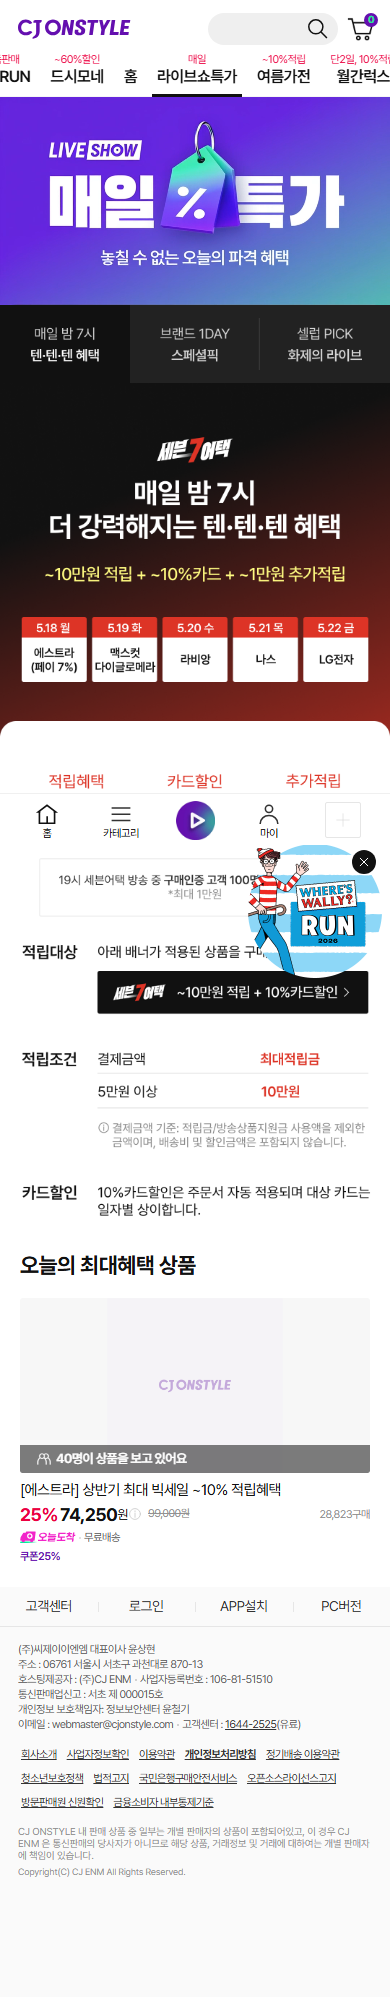
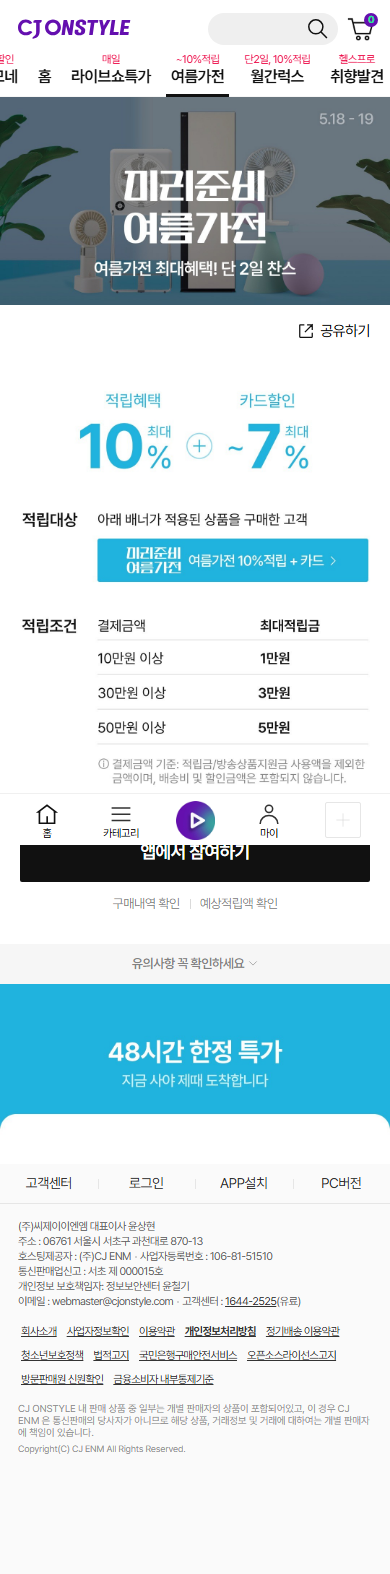
Auto update: 2026.05.18

diff --git a/index.html b/index.html
@@ -70,9 +70,9 @@
     <div class="card-header">
       <div class="card-header-top">
         <span class="logo cj">CJ온스타일</span>
-        <span class="promo-name" id="cj-name">라이브쇼특가</span>
+        <span class="promo-name" id="cj-name">미리준비 여름가전</span>
       </div>
-      <span class="promo-period" id="cj-period">5/18</span>
+      <span class="promo-period" id="cj-period">5/18 ~ 5/19</span>
     </div>
     <div class="card-body">
       <div class="screenshot-wrap">
@@ -81,8 +81,8 @@
         <p style="font-size:10px;color:#bbb;">클릭하면 크게 보기</p>
       </div>
       <div class="summary" id="cj-summary">혜택:
-  쿠폰: 25% 할인
-  적립: 최대 10% 적립</div>
+  적립: 최대 10% 적립 (10만원 이상 1만원 / 30만원 이상 3만원 / 50만원 이상 5만원)
+  카드: 최대 ~7% 카드할인</div>
     </div>
   </div>
   <div class="card">
@@ -128,7 +128,7 @@
   <img id="modal-img" src="" alt="">
 </div>
 <script>
-  const summaries = {"2026-05-18": {"hyundai": {"period": "", "name": "해당없음", "body": "", "start": "2026-05-13"}, "gs": {"period": "~ 5/18", "name": "매직딜데이", "body": "혜택:\n  카드: 삼성카드 7% 즉시할인\n  적립: 1개만 사도 10% 적립", "start": "2026-05-18"}, "cj": {"period": "", "name": "라이브쇼특가", "body": "혜택:\n  쿠폰: 25% 할인\n  적립: 최대 10% 적립", "start": "2026-05-18"}, "lotte": {"period": "5/18 ~ 5/19", "name": "5월 PICK 데이 미리 준비하는 여름 아이템 HOT&BEST 패션 슈즈&잡화 특가", "body": "혜택:\n  적립: 최대 12% 적립\n  특가: 엘라이브 단독특가 (5/18~19, 코지마 안마의자/마사지기 외)\n  특가: 파르페by알레르망 최대 53% 할인 (5/18~19 앵콜 단독특가)", "start": "2026-05-18"}}, "2026-05-15": {"hyundai": {"period": "", "name": "해당없음", "body": "", "start": "2026-05-13"}, "gs": {"period": "", "name": "판타지에스", "body": "혜택:\n  적립: TV상품 10% 적립, 최대 3만원\n  경품: 12억 타임어택, 매일 2회 1억 선착순 혜택\n  카드: 판타지브랜드 대표 브랜드 카드 10% 할인\n  할인: 판타지스타 선별 신상품 최대 50% 할인\n  특가: 99특가 매일 오전 10시 오픈런\n  쿠폰: 오늘의 특가 쿠폰 (일일 식품/생활 특가 상품)", "start": "2026-05-15"}, "cj": {"period": "5/11 ~ 5/17", "name": "쿠폰런", "body": "혜택:\n  쿠폰: 매일 오전 10시 선착순 ~20%할인 (선착순 500명, 최대 1만원)\n  쿠폰: 10%할인 (선착순 5,000명, 최대 5만원)\n  쿠폰: 3,000원 할인 (전 고객 1인 1장)\n  쿠폰: 첫 구매 ~20% (CJ온스타일 처음 또는 오랜만 고객)\n  쿠폰: 식품 10%할인", "start": "2026-05-12"}, "lotte": {"period": "5/14 ~ 5/17", "name": "브랜드 올스타전", "body": "혜택:\n  카드: 카드 7% 할인\n  적립: 최대 6만점 적립", "start": "2026-05-15"}}, "2026-05-14": {"hyundai": {"period": "", "name": "해당없음", "body": "", "start": "2026-05-13"}, "gs": {"period": "~ 5/17", "name": "판타지에스", "body": "혜택:\n  적립: TV상품 10% 적립, 최대 3만원\n  특가: 매직딜데이 7%+10% 중복 혜택 (매일 운영)\n  카드: 판타지브랜드 최대 10% 할인\n  할인: 판타지푸드 최대 50% 할인", "start": "2026-05-12"}, "cj": {"period": "5/11 ~ 5/17", "name": "쿠폰런", "body": "혜택:\n  쿠폰: 선착순 20% 할인쿠폰 (매일 오전 10시, 선착순 500명, 최대 1만원 할인)\n  쿠폰: 선착순 10% 할인쿠폰 (매일 오전 10시, 선착순 5,000명, 최대 5천원 할인)\n  쿠폰: 전 고객 3,000원 할인쿠폰 (누구나, 1회)\n  쿠폰: 첫구매 고객 최대 20% 할인쿠폰", "start": "2026-05-12"}, "lotte": {"period": "5/14", "name": "메가딜데이", "body": "혜택:\n  카드: KB카드·삼성카드 7% 할인\n  적립: 최대 12만 적립\n  쿠폰: 최대 20% 상품별 쿠폰 (트루릴리전·라스튜디오·조르쥬레쉬·이엘다이아몬드 등 개별 적용)", "start": "2026-05-14"}}, "2026-05-13": {"hyundai": {"period": "", "name": "해당없음", "body": "", "start": "2026-05-13"}, "gs": {"period": "~ 5/17", "name": "판타지에스", "body": "혜택:\n  적립: TV상품 최대 3만원, 10% 적립\n  특가: 12억 타임어택 매일 2회, 1억 선착순\n  카드: 판타지브랜드 대표 브랜드 카드 10% 할인\n  할인: 인기상품 최대 50% 할인\n  특가: 99특가 매일 오전 10시 오픈런", "start": "2026-05-12"}, "cj": {"period": "5/11 ~ 5/17", "name": "쿠폰런", "body": "혜택:\n  쿠폰: 20% 할인, 매일 오전 10시 선착순, 최소 500원 ~ 최대 1만원\n  쿠폰: 10% 할인, 선착순, 최소 5,000원 ~ 최대 5만원\n  쿠폰: 3,000원 할인, 전고객 선착 지급\n  쿠폰: 첫 구매 고객 ~20% 할인\n  쿠폰: 식품 10% 할인", "start": "2026-05-12"}, "lotte": {"period": "5/11 ~ 5/13", "name": "브랜드 올스타전", "body": "혜택:\n  카드: 7% 할인\n  적립: 최대 15% 적립", "start": "2026-05-13"}}, "2026-05-12": {"gs": {"period": "5/12 ~ 5/17", "name": "판타지에스", "body": "혜택:\n  카드: 최대 10% 할인 (판타지브랜드 대표 브랜드 상품, 삼성카드·현대카드)\n  적립: TV상품 최대 3만원 적립 (10% 적립)\n  특가: 12억 타임어택 (매일 2회, 회차당 1억 선착순)\n  할인: 최대 50% 할인 (판타지뷰티 인기상품)\n  특가: 99특가 (매일 오전 10시 오픈런)\n  쿠폰: 오늘의 특가 쿠폰 (식품 특가 적용)", "start": "2026-05-12"}, "cj": {"period": "5/11 ~ 5/17", "name": "쿠폰런", "body": "혜택:\n  쿠폰: 매일 오전 10시 선착순 ~20% 할인 쿠폰", "start": "2026-05-12"}, "lotte": {"period": "5/11 ~ 5/12", "name": "메가쇼데이", "body": "혜택:\n  적립: 최대 12만 적립 (쇼데이·뷰티데이즈 해당 상품)\n  카드: 최대 7% 할인 (브랜드올스타 카드 적용, 5/11~12 신청)\n  적립: 2만 적립 (카드 혜택 신청 시 중복 적용)", "start": "2026-05-12"}, "hyundai": {"period": "매주 화요일", "name": "올인데이", "body": "혜택:\n  카드: 7% 할인, 최대 28만원\n  적립: 10% 적립, 최대 5만 포인트\n  쿠폰: 웰컴쿠폰 최대 5만원", "start": "2026-05-12"}}};
+  const summaries = {"2026-05-18": {"hyundai": {"period": "", "name": "해당없음", "body": "", "start": "2026-05-13"}, "gs": {"period": "~ 5/18", "name": "매직딜데이", "body": "혜택:\n  카드: 삼성카드 7% 즉시할인\n  적립: 1개만 사도 10% 적립", "start": "2026-05-18"}, "cj": {"period": "5/18 ~ 5/19", "name": "미리준비 여름가전", "body": "혜택:\n  적립: 최대 10% 적립 (10만원 이상 1만원 / 30만원 이상 3만원 / 50만원 이상 5만원)\n  카드: 최대 ~7% 카드할인", "start": "2026-05-18"}, "lotte": {"period": "5/18 ~ 5/19", "name": "5월 PICK 데이 미리 준비하는 여름 아이템 HOT&BEST 패션 슈즈&잡화 특가", "body": "혜택:\n  적립: 최대 12% 적립\n  특가: 엘라이브 단독특가 (5/18~19, 코지마 안마의자/마사지기 외)\n  특가: 파르페by알레르망 최대 53% 할인 (5/18~19 앵콜 단독특가)", "start": "2026-05-18"}}, "2026-05-15": {"hyundai": {"period": "", "name": "해당없음", "body": "", "start": "2026-05-13"}, "gs": {"period": "", "name": "판타지에스", "body": "혜택:\n  적립: TV상품 10% 적립, 최대 3만원\n  경품: 12억 타임어택, 매일 2회 1억 선착순 혜택\n  카드: 판타지브랜드 대표 브랜드 카드 10% 할인\n  할인: 판타지스타 선별 신상품 최대 50% 할인\n  특가: 99특가 매일 오전 10시 오픈런\n  쿠폰: 오늘의 특가 쿠폰 (일일 식품/생활 특가 상품)", "start": "2026-05-15"}, "cj": {"period": "5/11 ~ 5/17", "name": "쿠폰런", "body": "혜택:\n  쿠폰: 매일 오전 10시 선착순 ~20%할인 (선착순 500명, 최대 1만원)\n  쿠폰: 10%할인 (선착순 5,000명, 최대 5만원)\n  쿠폰: 3,000원 할인 (전 고객 1인 1장)\n  쿠폰: 첫 구매 ~20% (CJ온스타일 처음 또는 오랜만 고객)\n  쿠폰: 식품 10%할인", "start": "2026-05-12"}, "lotte": {"period": "5/14 ~ 5/17", "name": "브랜드 올스타전", "body": "혜택:\n  카드: 카드 7% 할인\n  적립: 최대 6만점 적립", "start": "2026-05-15"}}, "2026-05-14": {"hyundai": {"period": "", "name": "해당없음", "body": "", "start": "2026-05-13"}, "gs": {"period": "~ 5/17", "name": "판타지에스", "body": "혜택:\n  적립: TV상품 10% 적립, 최대 3만원\n  특가: 매직딜데이 7%+10% 중복 혜택 (매일 운영)\n  카드: 판타지브랜드 최대 10% 할인\n  할인: 판타지푸드 최대 50% 할인", "start": "2026-05-12"}, "cj": {"period": "5/11 ~ 5/17", "name": "쿠폰런", "body": "혜택:\n  쿠폰: 선착순 20% 할인쿠폰 (매일 오전 10시, 선착순 500명, 최대 1만원 할인)\n  쿠폰: 선착순 10% 할인쿠폰 (매일 오전 10시, 선착순 5,000명, 최대 5천원 할인)\n  쿠폰: 전 고객 3,000원 할인쿠폰 (누구나, 1회)\n  쿠폰: 첫구매 고객 최대 20% 할인쿠폰", "start": "2026-05-12"}, "lotte": {"period": "5/14", "name": "메가딜데이", "body": "혜택:\n  카드: KB카드·삼성카드 7% 할인\n  적립: 최대 12만 적립\n  쿠폰: 최대 20% 상품별 쿠폰 (트루릴리전·라스튜디오·조르쥬레쉬·이엘다이아몬드 등 개별 적용)", "start": "2026-05-14"}}, "2026-05-13": {"hyundai": {"period": "", "name": "해당없음", "body": "", "start": "2026-05-13"}, "gs": {"period": "~ 5/17", "name": "판타지에스", "body": "혜택:\n  적립: TV상품 최대 3만원, 10% 적립\n  특가: 12억 타임어택 매일 2회, 1억 선착순\n  카드: 판타지브랜드 대표 브랜드 카드 10% 할인\n  할인: 인기상품 최대 50% 할인\n  특가: 99특가 매일 오전 10시 오픈런", "start": "2026-05-12"}, "cj": {"period": "5/11 ~ 5/17", "name": "쿠폰런", "body": "혜택:\n  쿠폰: 20% 할인, 매일 오전 10시 선착순, 최소 500원 ~ 최대 1만원\n  쿠폰: 10% 할인, 선착순, 최소 5,000원 ~ 최대 5만원\n  쿠폰: 3,000원 할인, 전고객 선착 지급\n  쿠폰: 첫 구매 고객 ~20% 할인\n  쿠폰: 식품 10% 할인", "start": "2026-05-12"}, "lotte": {"period": "5/11 ~ 5/13", "name": "브랜드 올스타전", "body": "혜택:\n  카드: 7% 할인\n  적립: 최대 15% 적립", "start": "2026-05-13"}}, "2026-05-12": {"gs": {"period": "5/12 ~ 5/17", "name": "판타지에스", "body": "혜택:\n  카드: 최대 10% 할인 (판타지브랜드 대표 브랜드 상품, 삼성카드·현대카드)\n  적립: TV상품 최대 3만원 적립 (10% 적립)\n  특가: 12억 타임어택 (매일 2회, 회차당 1억 선착순)\n  할인: 최대 50% 할인 (판타지뷰티 인기상품)\n  특가: 99특가 (매일 오전 10시 오픈런)\n  쿠폰: 오늘의 특가 쿠폰 (식품 특가 적용)", "start": "2026-05-12"}, "cj": {"period": "5/11 ~ 5/17", "name": "쿠폰런", "body": "혜택:\n  쿠폰: 매일 오전 10시 선착순 ~20% 할인 쿠폰", "start": "2026-05-12"}, "lotte": {"period": "5/11 ~ 5/12", "name": "메가쇼데이", "body": "혜택:\n  적립: 최대 12만 적립 (쇼데이·뷰티데이즈 해당 상품)\n  카드: 최대 7% 할인 (브랜드올스타 카드 적용, 5/11~12 신청)\n  적립: 2만 적립 (카드 혜택 신청 시 중복 적용)", "start": "2026-05-12"}, "hyundai": {"period": "매주 화요일", "name": "올인데이", "body": "혜택:\n  카드: 7% 할인, 최대 28만원\n  적립: 10% 적립, 최대 5만 포인트\n  쿠폰: 웰컴쿠폰 최대 5만원", "start": "2026-05-12"}}};
   const NO_BODY = '캡처 완료 — 행사 내용은 위 이미지를 확인하세요';
   function g(id) { return document.getElementById(id); }
   function s(d) { return summaries[d] || {}; }
